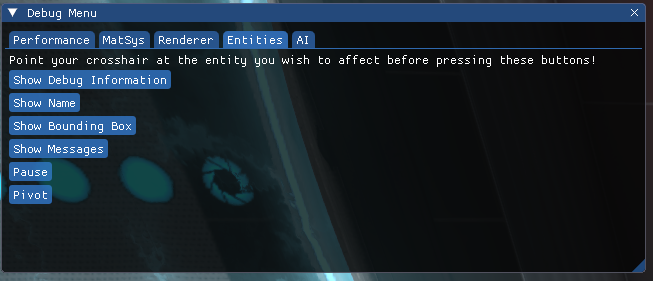
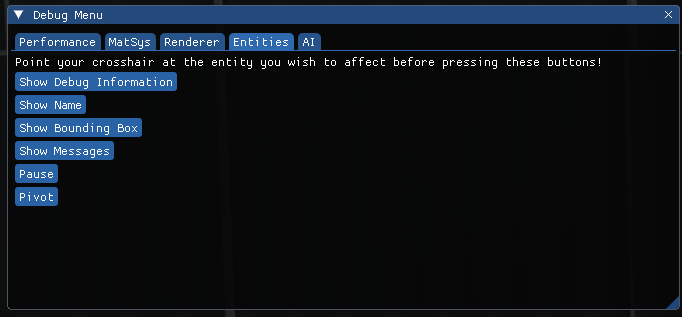
Updated DevUI pages

Changed region(s): [[0.0, 0.0, 1.0, 1.0]]

diff --git a/docs/misc/devui/categories/profiler.md b/docs/misc/devui/categories/profiler.md
@@ -3,10 +3,129 @@ title: Profiler
 weight: 30
 ---
 
-# Why Profiler is Peak for Debugging?
+# Profiler
 
-There are 2 screenshots - one showing texture budget with the whole map visible, and the second showing the corner. TOTAL GRAPH MUST BE SHOWN BIGGER. The difference is huge.
+The Profiler tab is the third tab in the Developer UI menu. Its main purpose is dynamically debugging different aspects of the map and the engine, showing the exact budget and usage. Additionally, a `.txt` report can be generated, containing every event that happened in a specified period of time. The menus of this tab are useful for optimising maps, materials and game events.
 
-In the budgets, show that the values are map-specific. Also don't forget to describe each of them.
+![All the menus of the Profiler tab](images/prof_all.png)
 
-In VProf Budget, scaling up the window with histogram enabled crashes the game.
+It consists of 8 menus - **Texture Budget Per-Frame**, **Texture Budget Global**, **Misc Graphics Stats**, **VProf Budget**, **VProf Report Generator**, **VProf Counters**, **c** and **VProf UI**.
+
+****
+
+## Texture Budget Per-Frame
+
+Explanation
+
+![Texture Budget Per-Frame when looking at a heavy map](images/prof_tbudget1.png)
+
+Difference between map and wall budgets
+
+![Texture Budget Per-Frame when looking at a wall](images/prof_tbudget2.png)
+
+Values:
+* Values
+
+![Texture Budget Per-Frame menu](images/prof_tbudget1-menu.png)
+
+****
+
+## Texture Budget Global
+
+Explanation
+
+![Texture Budget Global](images/prof_tbudgetglob.png)
+
+Values:
+* Values
+
+![Texture Budget Global menu](images/prof_tbudgetglob-menu.png)
+
+****
+
+## Misc Graphics Tab
+
+Explanation
+
+![Misc Graphics Tab](images/prof_misc.png)
+
+Values:
+* Values
+
+****
+
+## VProf Budget
+
+Explanation
+
+![VProf Budget](images/prof_vbudget.png)
+
+> [!CAUTION]
+> When having `Historgam` enabled, do not oversize the window! Developer UI can only have a certain amount of graphs drawn at the same time, drawing too many overflows the buffer and crashes the game!
+
+Values:
+* Values
+
+****
+
+## VProf Report Generator
+
+Explanation
+
+![VProf Report Generator](images/prof_vreport.png)
+
+Values:
+* Values
+
+### VProf Generated Report
+
+It also has an after-report window called **VProf Generated Report** that contains the reported file.
+
+![VProf Generated Report](images/prof_vreport_gen.png)
+
+Values:
+* Values
+
+****
+
+## VProf Counters
+
+Explanation
+
+![VProf Counters](images/prof_vcount.png)
+
+Values:
+* Values
+
+![VProf Counters Menu](images/prof_vcount-menu.png)
+
+****
+
+## VProf Tree
+
+Explanation
+
+![VProf Tree](images/prof_vtree.png)
+
+Values:
+* Values
+
+![VProf Tree menu](images/prof_vtree-menu.png)
+
+****
+
+## VProf UI
+
+Explanation
+
+![VProf Tree](images/prof_vui.png)
+
+****
+
+# Ignore (TODO NOTES)
+
+> There are 2 screenshots - one showing texture budget with the whole map visible, and the second showing the corner. TOTAL GRAPH MUST BE SHOWN BIGGER. The difference is huge.
+
+> In the budgets, show that the values are map-specific. Also don't forget to describe each of them.
+
+> In VProf Budget, scaling up the window with histogram enabled crashes the game.

diff --git a/docs/misc/devui/categories/graphics.md b/docs/misc/devui/categories/graphics.md
@@ -34,6 +34,8 @@ There are 3 values that are duplicated for the regular fog and the skybox fog:
 
 ![Fog Config Menu](images/graphics_fog.png)
 
+****
+
 ## Clustered Volumetrics Inspector
 
 Clustered Volumetrics Inspector allows setting the volumetrical value for all clustered lights globally, allowing to preview the new volumetric lighting on the maps that were compiled before the update. It does that by applying a pseudo-`obb_fogvolume` that covers the whole map, values of which are controlled by this menu.
@@ -63,9 +65,17 @@ If you specify an `obb_fogvolume` entity in the fogvolume list, the following pr
 
 ![CVI Fog Editor](images/graphics_vol_fog.png)
 
+****
+
 ## Cascade Shadow Mapping Config
 
 CSM Config allows toggling and changing the rotation of the light casted by `env_cascade_light`, as well as capturing the current "sharpness" of all the shadows produced by this entity *(the way CSM works is that, the closer the shadows are to the player, the sharper they get)* and changing the shadow distance.
+
+> [!BUG]
+>
+> DEVS PLEASE NOTICE!
+>
+> .gif images cannot be previewed. They hold the first frame.
 
 ![CSM Config](images/graphics_csm.gif)
 
@@ -76,6 +86,8 @@ The menu has the following values:
 * `Rotation Override` toggles the ability to change the `env_cascade_light` entity's angles by using the `X`, `Y` and `Z` bars below.
 
 ![CSM Config Menu](images/graphics_csm.png)
+
+****
 
 ## Post Processing
 
@@ -90,38 +102,94 @@ Depth of Field menu allows setting the DoF effect - blurring the view after a ce
 ![Post Processing DOF](images/graphics_pp_dof.png)
 
 The menu has the following values:
-* Values.
+* `DoF Override` overrides the current DoF values, if those were set
+* `Slider Range` changes the maximum range for the sliders below;
+* `Near Blur Depth` changes the minimum distance of the near blur effect *(blur will be applied to objects if they are this close to the player)*
+* `Near Focus Depth` changes the maximum distance of the near blur effect
+* `Far Focus Depth` changes the maximum distance of the far blur effect *(blur will be applied to objects if they are this far from the player)*
+* `Far Blur Depth` changes the minimum distance of the far blur effect
+* `Near Blur Radius` changes the intensity of the near blur effect
+* `Far Blur Radius` changes the intensity of the far blur effect
+* `DoF Quality` changes the method used for DoF effect. 0 means no DoF, 1 is default, 2 is pretty much identical.
+* `Copy Settings` copies all the DoF settings to the clipboard as console commands.
+
+> [!NOTE]
+> Example of the output of the `Copy Settings` button:
+> 
+> `mat_dof_override 0;mat_dof_near_blur_depth 168.099;mat_dof_near_focus_depth 277.157;mat_dof_far_focus_depth 271.157;mat_dof_far_blur_depth 1000.0;mat_dof_near_blur_radius 10.0;mat_dof_far_blur_radius 5.0;mat_dof_quality 1;`
+
+* `Copy All Settings` copies all the settings related to Motion Blur effect.
+
+> [!NOTE]
+> Example of the output of the `Copy All Settings` button:
+> 
+> `mat_motion_blur_enabled 1;mat_motion_blur_forward_enabled 1;mat_motion_blur_falling_min 8;mat_motion_blur_falling_max 20.0;mat_motion_blur_falling_intensity 1.0;mat_motion_blur_roll_intensity 1.0;mat_motion_blur_rotation_intensity 1.0;mat_motion_blur_strength 1.0;`
 
 ![Post Processing DOF](images/graphics_pp_dof-menu.png)
 
 ### Motion Blur
 
-Motion Blur menu allows controlling the motion blur effect, which blurs the view when it rotates. Only applied to the player view.
+Motion Blur menu allows controlling the motion blur effect. There are two types of Motion Blurs. The first one is applied upon camera movement, smoothing the image. The second one is applied upon player movement, blurring the edges of the screen when the player moves fast.
 
 The menu has the following values:
-* Values.
+* `Blur Enabled` enables and overrides the Motion Blur effect that is applied on camera movement.
+* `Blur Forward Enabled` enables and overrides the Motion Blur effect that on player movement.
+* `Blur Falling Min` sets the minimum value at which the player movement Motion Blur will start to appear.
+* `Blur Falling Min` sets the maximum value at which the player movement Motion Blur will be fully visible.
+* `Blur Falling Intensity` sets the intensity of the effect. High values make the edges appear extremely blurry.
+* `Blur Roll Intensity` sets the intensity of the roll effect for the Motion Effect used for camera movement.
+* `Blur Rotation Intensity` changes the intensity of the effect.
+* `Blur Strenght` sets the strenght (lenght) of the blur.
+* `Copy Settings` copies all the Motion Blur settings to the clipboard as console commands.
+
+> [!NOTE]
+> Example of the output of the `Copy Settings` button:
+> 
+> `mat_motion_blur_enabled 1;mat_motion_blur_forward_enabled 1;mat_motion_blur_falling_min 0;mat_motion_blur_falling_max 0.529;mat_motion_blur_falling_intensity 0;mat_motion_blur_roll_intensity 1.058;mat_motion_blur_rotation_intensity 1.587;mat_motion_blur_strength 1.851;`
+
+* `Copy All Settings` is identical to the `Copy Settings` button.
 
 High values create unrealistic blur.
 
-![Post Processing DOF](images/graphics_pp_mb-menu.png)
+![Post Processing Motion Blur](images/graphics_pp_mb-menu.png)
 
 ### Bloom
 
-Bloom menu allows controlling the bloom effect, which brightens the edges of bright pixels, creating a cinematic effect.
+Bloom menu allows to control the bloom effect, which brightens the edges of bright pixels, creating a cinematic shine effect. Additionaly, this menu allows to control the Autoexposure effect, which brightens / darkens the overall image based on where the player is looking (also know as the HDR effect).
 
 The menu has the following values:
-* Values.
+* `Force Bloom` overrides the bloom effect.
+* `Disable Bloom` disables the bloom completely.
+* `Bloom Scale` scales the bloom effect.
+* `Bloom Scalefactor Scalar` scales the scale of the bloom effect.
+* `Bloom Rate` sets the time it takes for the bloom changes to occur. Values are accepted from 0 to 1, where 1 is exactly a second.
+* `Autoexposure Max` sets the maximum brightness for the autoexposure effect.
+* `Autoexposure Max Multiplier` scales the maximum brightness value for the autoexposure effect.
+* `Autoexposure Min` sets the minimum brightness for the autoexposure effect.
+* `Uncap Autoexposure` uncaps autoexposure, making everything appear bright.
+* `Accelerate Exposure Down` sets the acceleration percentage for the autoexposure to darken. Higher values make the autoexposure effect disappear faster.
+* `Copy Settings` copies all the Bloom & Autoexposure settings to the clipboard as console commands.
 
-![Post Processing DOF](images/graphics_pp_bloom.png)
-![Post Processing DOF](images/graphics_pp_bloom-menu.png)
+> [!NOTE]
+> Example of the output of the `Copy Settings` button:
+> 
+> `mat_bloomscale 0.827;mat_bloomamount_rate 1;mat_dynamic_tonemapping 1;mat_autoexposure_max 0.837;mat_autoexposure_max_multiplier 0.899;mat_autoexposure_min 0.196;mat_show_histogram 0;mat_hdr_uncapexposure 0;mat_force_bloom 0;mat_accelerate_adjust_exposure_down 6.719;mat_non_hdr_bloom_scalefactor .3;mat_bloom_scalefactor_scalar 0.826;`
+
+* `Copy All Settings` copies all the settings related to Motion Blur effect.
+
+![Post Processing Bloom](images/graphics_pp_bloom.png)
+![Post Processing Bloom Menu](images/graphics_pp_bloom-menu.png)
+
+****
 
 ## SoftBody Debug
 
-I actually don't have anything related to SoftBody... thing. Not even a screenshot of the menu, I forgot to make one.
+SoftBody Debug helps with debugging models that use the new cloth system.
 
-Might ask someone.
+SoftBody is a system that allows models to have cloth-like parts. It simulates cloth physics and softbody physics on the model. To make a model compile as a cloth / softbody object, add `$cloth` to the model's .qc file before compiling it.
 
+![SoftBody Debug on cloth model](images/graphics_soft2.png)
 
+![SoftBody Debug Menu](images/graphics_soft.png)
 
-
-
+****

diff --git a/docs/misc/devui/categories/windows.md b/docs/misc/devui/categories/windows.md
@@ -3,6 +3,10 @@ title: Windows
 weight: 10
 ---
 
+> Redo `images/windows.png`
+
+> Add texts showing what is enabled on the screenshot
+
 # Windows
 
 The Windows tab is the first tab in the Developer UI menu. It contains various options that control different parts of the engine, from material properties to NPC behaviours. Being very useful for debugging entities and rendering, it has proven to be a great replacement for the basic console commands, making debugging faster and easier.
@@ -29,11 +33,11 @@ The debug menu is made to improve the debugging by reducing the amount of consol
 
 The debug menu consists of 5 tabs: Perfomance, MatSys, Renderer, Entities and AI.
 
-![Debug Menu](images/windows_dm.png)
-
 ### Perfomance
 
 The first tab has basic buttons - show host speed, FPS counter and player's position with angles.
+
+![Debug Menu](images/windows_dm.png)
 
 ### MatSys
 
@@ -149,16 +153,21 @@ The last, fifth menu utilizes control over the NPC entity the player is looking 
 ![AI menu](images/windows_dm_ai1.png)
 
 > [!WARNING]
-> HALF OF THE BUTTONS DO NOTHING! EITHER REMOVE THEM OR FIX!
+>
+> DEVELOPERS, PLEASE NOTICE!
+>
+> Most of the buttons that have descriptions don't work. I filled the descriptions based on the command names. Some commands don't have descriptions on the wiki, some are not documented at all.
 > 
-> Some of the buttons that have descriptions don't work as well. I filled the descriptions based on the command's name. `showinfo` is broken in P2CE so I can't check the descriptions.
+> I'm afraid of only one thing - "wiki says this, but it doesn't work" situations will massively appear. And who is to blame?
+> 
+> Things should not be done like this. This is bullshit.
 
 
-* `ai_disable` disables AI for the NPC.
+* `ai_disable` bypasses all AI logic routines and puts all NPCs into their idle animations.
 
-* `ai_resume` enables back AI for the NPC.
+* `ai_resume` resumes normal processing if the NPC is stepping through tasks.
 
-* `ai_stop` is similar to `ai_disable`.
+* `ai_stop` completely disables AI for the NPC.
 
 * `noclip` enables noclip for the player.
 
@@ -168,27 +177,25 @@ The last, fifth menu utilizes control over the NPC entity the player is looking 
 
 #### `NPC Commands` dropdown contains the following:
 
-* `Enemies` ..?
+* `Enemies` outputs this NPC's current entities.
 
 * `Go` tells the NPC to continue following its path.
 
 * `Go Random` tells the NPC to go in a random direction.
 
-* `Route` ..?
+* `Route` outputs this NPC's current route to their goal.
 
 * `Select` "selects" the NPC by drawing a dark red box around its bounding box.
-
-* `Bipass` ..?
 
 * `Destroy` removes the NPC.
 
 * `Visibility` tries to call a missing command called `npc_visibility`.
 
-* `Tasks` ..?
+* `Tasks` outputs this NPC's current tasks (rush, cover, heal player, etc.)
 
-* `Combat` ..?
+* `Combat` sets this NPC to its combat mode.
 
-* `Focus` ..?
+* `Focus` tells this NPC to focus on the target.
 
 #### `Node Graph` dropdown contains the following:
 
@@ -198,11 +205,11 @@ The last, fifth menu utilizes control over the NPC entity the player is looking 
 
 * `Show Hull` shows this NPC's current cover position.
 
-* `Show Connect` ..?
+* `Show Connect` shows connection of this NPC.
 
-* `Show Visibility` ..?
+* `Show Visibility` shows visibility of this NPC.
 
-* `Show Graph Connect` ..?
+* `Show Graph Connect` shows graph connections of this NPC.
 
 ![AI](images/windows_dm_ai2.png)
 